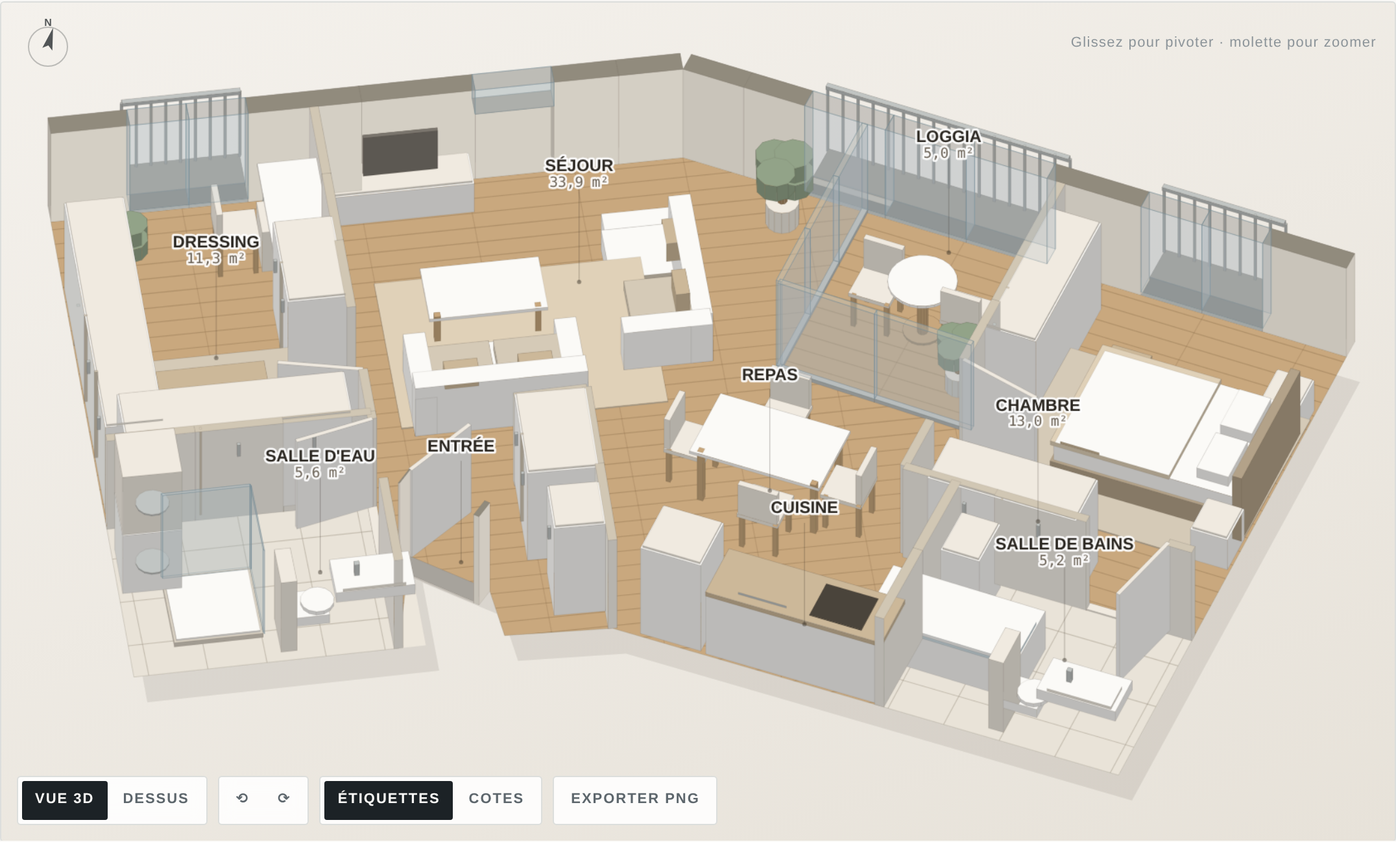
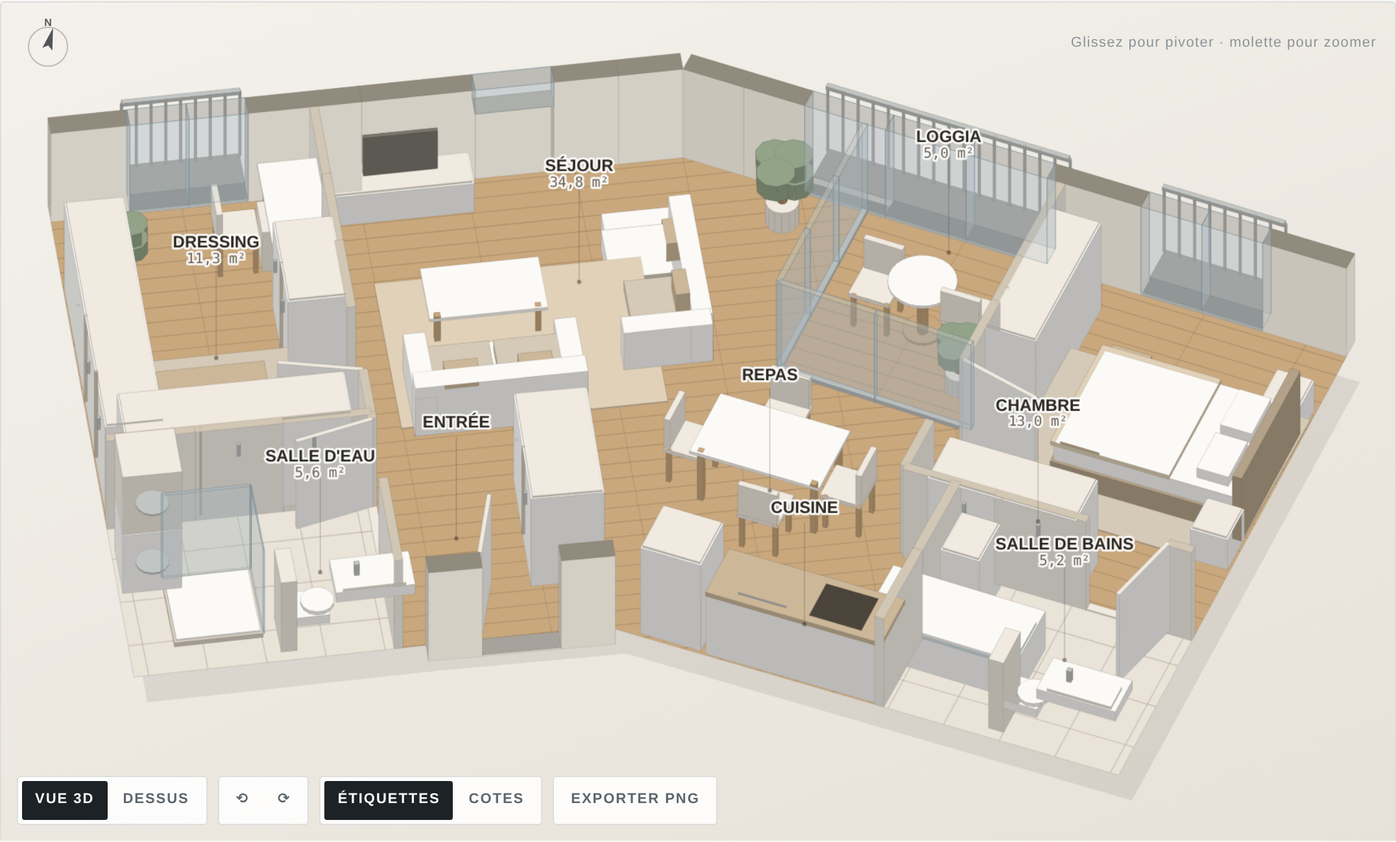
Supprime le redan de l'entrée : la façade file droit, porte centrée
Le contour comportait un renfoncement de trois sommets devant la porte
d'entrée, repris de la polyligne d'annotation du plan d'origine. Il
n'existe pas : la façade va tout droit sur 1,89 m entre l'angle de la
cuisine et celui de la salle d'eau, ce que confirme la cote de 1,09 m du
plan (1,09 de mur + 0,80 de porte = 1,89). Le petit retour de 0,63 m qui
en résultait disparaît.

La porte d'entrée est centrée dans cette façade, gond côté salle d'eau,
ouvrant vers l'intérieur.

Le bloc de l'entrée n'est plus une cloison mais un meuble encastré : les
deux murs qui l'entouraient sont supprimés, il ne reste qu'un rangement
dessiné en trait de mobilier. Il est ramené à 1,45 m pour dégager le
débattement de la porte désormais centrée.

Surface : 74,77 m² au lieu de 74,04.

Claude-Session: https://claude.ai/code/session_01PscxUxGcwcYz6V62f58EbU

Changed region(s): [[0.2802, 0.4931, 0.467, 0.8012]]

diff --git a/plan-3d-appartement/index.html b/plan-3d-appartement/index.html
@@ -1,4 +1,4 @@
-<title>Plan 3D meublé — Appartement 74 m²</title>
+<title>Plan 3D meublé — Appartement 74,8 m²</title>
 <style>
   :root{
     --paper:#FBFAF8;
@@ -166,10 +166,10 @@
   <header class="cartouche">
     <div>
       <p class="eyebrow">Plan 3D meublé — axonométrie</p>
-      <h1>Appartement 74 m² — dressing, chambre, séjour&nbsp;ouvert</h1>
+      <h1>Appartement 74,8 m² — dressing, chambre, séjour&nbsp;ouvert</h1>
     </div>
     <dl class="stamp">
-      <div><dt>Surface</dt><dd>74,0 m²</dd></div>
+      <div><dt>Surface</dt><dd>74,8 m²</dd></div>
       <div><dt>Pièces</dt><dd>T3</dd></div>
       <div><dt>Échelle</dt><dd>1:50</dd></div>
       <div><dt>Ambiance</dt><dd>Blanc / beige</dd></div>
@@ -235,8 +235,8 @@
 
   <h2>Relevé</h2>
   <div class="notes" style="margin-top:16px">
-    <p>Le contour et chaque axe de cloison ont été suivis directement sur le plan d'origine : détection des traits, régression sur les points relevés, puis intersection des droites pour obtenir les sommets. Le contour fermé mesure <strong>74,04 m²</strong>, et les longueurs retrouvées — 6,41 m au nord-ouest, 7,20 m au nord, 6,18 m à l'est, 5,47 m au sud, 2,96 m et 6,30 m au sud-ouest et à l'ouest — tombent à moins d'un centimètre des cotes portées sur le plan.</p>
-    <p>Les cloisons font 9 cm et les murs de façade 22 cm, épaisseurs mesurées sur le dessin. Les baies sont positionnées d'après la densité du hachuré le long de chaque façade : porte-fenêtre du dressing, fenêtre du séjour, verrière de la loggia, porte-fenêtre de la chambre, fenêtres de la salle de bains, de la cuisine et de la salle d'eau.</p>
+    <p>Le contour et chaque axe de cloison ont été suivis directement sur le plan d'origine : détection des traits, régression sur les points relevés, puis intersection des droites pour obtenir les sommets. Le contour fermé mesure <strong>74,77 m²</strong>, et les longueurs retrouvées — 6,41 m au nord-ouest, 7,20 m au nord, 6,18 m à l'est, 5,47 m au sud, 2,96 m et 6,30 m au sud-ouest et à l'ouest — tombent à moins d'un centimètre des cotes portées sur le plan. La façade de l'entrée file droit sur 1,89 m entre l'angle de la cuisine et celui de la salle d'eau, la porte de 0,80 m centrée dedans.</p>
+    <p>Les cloisons font 9 cm et les murs de façade 22 cm, épaisseurs mesurées sur le dessin. Les baies sont positionnées d'après la densité du hachuré le long de chaque façade : porte-fenêtre du dressing, fenêtre du séjour, verrière de la loggia, porte-fenêtre de la chambre, fenêtres de la salle de bains, de la cuisine et de la salle d'eau. Le rangement de l'entrée est un meuble encastré, pas une cloison : il est dessiné en mobilier.</p>
     <p>Le mobilier reprend celui dessiné sur le plan d'origine — deux canapés deux places autour de la table basse, meuble TV en façade nord-ouest, table de repas quatre couverts, cuisine linéaire réfrigérateur/plaques/lave-vaisselle/évier, placard d'entrée, guéridon de loggia, lit et armoire de la chambre, équipements des deux pièces d'eau. Seule la chambre 2 s'en écarte : elle est aménagée en dressing avec un coin bureau, à votre demande.</p>
     <p>Les mêmes données produisent les planches 2D à l'échelle : <strong>A3 au 1:50</strong> et <strong>A4 au 1:75</strong>, chacune avec un plan meublé et un plan de base coté.</p>
   </div>
@@ -252,7 +252,7 @@
 /* ============================ GÉOMÉTRIE (mètres) ============================ */
 /* Données relevées sur le plan d'origine — source commune au rendu 3D et aux
    planches PDF (voir plan_data.py). */
-const DATA = {"V": {"W": [-0.041, -0.041], "N1": [5.861, -2.537], "N2": [13.002, -1.621], "E": [12.277, 4.517], "B1": [6.849, 3.886], "P1": [5.828, 4.262], "P2": [5.527, 3.712], "P3": [4.625, 3.473], "B2": [5.098, 4.597], "S": [2.38, 5.775], "A": [2.415, -1.079], "D": [4.048, 2.808], "Dw": [1.577, 3.847], "Se": [4.844, 4.707], "G1": [7.817, -2.286], "G2": [9.93, -2.015], "G3": [9.639, 0.342], "G4": [7.544, 0.022], "K1": [9.417, 2.143], "K2": [12.515, 2.504], "H1": [9.974, 2.208], "H4": [9.711, 4.219], "Ea": [5.379, 2.225], "Eb": [6.054, 1.921]}, "OUTLINE": ["W", "N1", "N2", "E", "B1", "P1", "P2", "P3", "B2", "S"], "ROOMS": [{"id": "sej", "name": "SÉJOUR", "full": "Séjour, cuisine et entrée", "floor": "parquet", "ang": -22.9, "label": [5.3, -0.6], "poly": ["A", "N1", "G1", "G4", "G3", "K1", "H1", "H4", "B1", "P1", "P2", "P3", "Se", "D"]}, {"id": "ch2", "name": "DRESSING", "full": "Dressing (chambre 2)", "floor": "parquet", "ang": -22.9, "label": [2.05, 1.35], "poly": ["W", "A", "D", "Dw"]}, {"id": "ch1", "name": "CHAMBRE", "full": "Chambre", "floor": "parquet", "ang": 7.3, "label": [10.6, 1.38], "poly": ["G2", "N2", "K2", "K1"]}, {"id": "log", "name": "LOGGIA", "full": "Loggia vitrée", "floor": "parquet", "ang": 7.3, "label": [8.78, -1.95], "poly": ["G1", "G2", "G3", "G4"]}, {"id": "sdb", "name": "SALLE DE BAINS", "full": "Salle de bains", "floor": "carrelage", "ang": 6.6, "label": [11.35, 3.15], "poly": ["H1", "K2", "E", "H4"]}, {"id": "sde", "name": "SALLE D'EAU", "full": "Salle d'eau", "floor": "carrelage", "ang": -23.4, "label": [3.82, 3.92], "poly": ["Dw", "D", "Se", "S"]}], "EXTRA": [["CUISINE", [8.7, 3.35]], ["REPAS", [7.89, 1.67]], ["ENTRÉE", [5.15, 3.42]]], "WALLS": [{"a": "W", "b": "N1", "t": 0.22, "ext": 1, "op": [{"t0": 0.8, "t1": 2.0, "kind": "french"}, {"t0": 4.3, "t1": 5.1, "kind": "win", "sill": 0.95}]}, {"a": "N1", "b": "N2", "t": 0.22, "ext": 1, "op": [{"t0": 1.32, "t1": 3.95, "kind": "french"}, {"t0": 4.97, "t1": 6.29, "kind": "french"}]}, {"a": "N2", "b": "E", "t": 0.22, "ext": 1, "op": []}, {"a": "E", "b": "B1", "t": 0.22, "ext": 1, "op": [{"t0": 1.55, "t1": 2.42, "kind": "win", "sill": 1.0}, {"t0": 2.74, "t1": 3.1, "kind": "win", "sill": 1.15}]}, {"a": "B1", "b": "P1", "t": 0.22, "ext": 1, "op": []}, {"a": "P1", "b": "P2", "t": 0.22, "ext": 1, "op": []}, {"a": "P2", "b": "P3", "t": 0.22, "ext": 1, "keep": 1, "op": [{"t0": 0.06, "t1": 0.92, "kind": "door", "swing": -1, "side": -1, "main": 1}]}, {"a": "P3", "b": "B2", "t": 0.22, "ext": 1, "op": []}, {"a": "B2", "b": "S", "t": 0.22, "ext": 1, "op": [{"t0": 1.63, "t1": 2.25, "kind": "win", "sill": 1.05}]}, {"a": "S", "b": "W", "t": 0.22, "ext": 1, "op": []}, {"a": "Eb", "b": "B1", "t": 0.09, "op": []}, {"a": "Ea", "b": "Eb", "t": 0.07, "op": []}, {"a": "A", "b": "D", "t": 0.09, "op": [{"t0": 2.77, "t1": 3.63, "kind": "door", "swing": -1}]}, {"a": "Dw", "b": "D", "t": 0.09, "op": []}, {"a": "D", "b": "Se", "t": 0.09, "op": [{"t0": 0.1, "t1": 0.92, "kind": "door", "swing": 1}]}, {"a": "G2", "b": "K1", "t": 0.09, "op": [{"t0": 2.61, "t1": 3.51, "kind": "door", "swing": 1, "side": -1}]}, {"a": "K1", "b": "K2", "t": 0.09, "op": [{"t0": 1.98, "t1": 2.85, "kind": "door", "swing": -1}]}, {"a": "H1", "b": "H4", "t": 0.1, "op": []}, {"a": "G1", "b": "G4", "t": 0.06, "op": [{"t0": 0, "t1": 99, "kind": "glass"}]}, {"a": "G4", "b": "G3", "t": 0.06, "op": [{"t0": 0, "t1": 99, "kind": "glass"}]}], "F": [{"t": "rug", "x": 4.95, "y": 0.35, "yaw": -22.92, "w": 2.7, "d": 2.0, "col": "beige"}, {"x": 3.284, "y": -1.165, "t": "tv", "yaw": -22.92, "w": 1.45, "d": 0.45}, {"t": "table", "x": 4.49, "y": 0.07, "yaw": -22.92, "w": 1.2, "d": 0.7, "h": 0.4}, {"t": "sofa", "x": 4.9, "y": 1.15, "yaw": -112.92, "w": 1.75, "d": 0.9, "seats": 2}, {"t": "sofa", "x": 6.15, "y": -0.45, "yaw": 157.08, "w": 1.65, "d": 0.9, "seats": 2}, {"t": "plant", "x": 7.05, "y": -1.95, "s": 1.0}, {"t": "table", "x": 7.89, "y": 1.67, "yaw": 6.63, "w": 1.4, "d": 0.85, "h": 0.75}, {"t": "chair", "x": 7.87, "y": 1.05, "yaw": 96.63}, {"t": "chair", "x": 8.01, "y": 2.29, "yaw": -83.37}, {"t": "chair", "x": 7.07, "y": 1.62, "yaw": 6.63}, {"t": "chair", "x": 8.75, "y": 1.82, "yaw": 186.63}, {"x": 7.503, "y": 3.63, "t": "cabinet", "yaw": 6.63, "w": 0.65, "d": 0.62, "h": 1.28}, {"t": "kitchen", "x": 0, "y": 0, "ka": "B1", "kb": "E", "t0": 1.0, "t1": 2.9, "off": 0.33, "yaw": 6.63}, {"t": "wardrobe", "x": 5.918, "y": 2.583, "yaw": 68.2, "w": 1.09, "d": 0.72, "h": 1.3, "doors": 2}, {"t": "wardrobe", "x": 6.375, "y": 3.52, "yaw": 68.2, "w": 0.58, "d": 0.52, "h": 1.3, "doors": 1}, {"t": "rug", "x": 2.2, "y": 2.05, "yaw": -22.92, "w": 2.1, "d": 1.5, "col": "greige"}, {"x": 1.206, "y": 2.148, "t": "wardrobe", "yaw": 67.4, "w": 3.1, "d": 0.6, "h": 1.28, "doors": 4}, {"x": 2.914, "y": 0.935, "t": "wardrobe", "yaw": 67.21, "w": 1.1, "d": 0.6, "h": 1.28, "doors": 2}, {"x": 2.696, "y": 3.051, "t": "wardrobe", "yaw": -22.81, "w": 2.3, "d": 0.58, "h": 1.28, "doors": 3}, {"x": 2.441, "y": -0.244, "t": "desk", "yaw": 67.21, "w": 1.2, "d": 0.6, "h": 0.74}, {"x": 1.887, "y": -0.011, "t": "chair", "yaw": -22.79}, {"t": "bench", "x": 2.2, "y": 2.05, "yaw": -22.92, "w": 1.1, "d": 0.42, "h": 0.44}, {"t": "plant", "x": 0.85, "y": 0.55, "s": 0.85}, {"x": 4.528, "y": 4.539, "t": "basin", "yaw": -23.430000000000007, "w": 0.8}, {"x": 3.904, "y": 4.733, "t": "wc", "yaw": -23.430000000000007}, {"t": "shower", "x": 2.9, "y": 4.68, "yaw": -23.43, "w": 0.9, "d": 0.9}, {"x": 2.137, "y": 4.306, "t": "appliance", "yaw": 67.4, "stack": 1}, {"t": "roundtable", "x": 8.8, "y": -0.86, "r": 0.35}, {"t": "chair", "x": 8.31, "y": -0.92, "yaw": 97.31}, {"t": "chair", "x": 9.29, "y": -0.8, "yaw": -82.69}, {"t": "plant", "x": 9.35, "y": -0.2, "s": 0.8}, {"t": "rug", "x": 11.45, "y": 0.25, "yaw": 7.31, "w": 2.6, "d": 2.2, "col": "greige"}, {"t": "bed", "x": 11.655, "y": 0.234, "yaw": 186.7, "w": 1.45, "l": 2.0}, {"x": 12.66, "y": -0.604, "t": "cabinet", "yaw": 96.74, "w": 0.45, "d": 0.4, "h": 0.46}, {"x": 12.437, "y": 1.283, "t": "cabinet", "yaw": 96.74, "w": 0.45, "d": 0.4, "h": 0.46}, {"x": 10.078, "y": -0.762, "t": "wardrobe", "yaw": 97.03, "w": 1.75, "d": 0.55, "h": 1.28, "doors": 3}, {"x": 10.495, "y": 1.967, "t": "wardrobe", "yaw": 6.65, "w": 1.6, "d": 0.6, "h": 1.22, "doors": 2}, {"x": 10.254, "y": 3.304, "t": "tub", "yaw": 97.45, "w": 0.75, "l": 1.65}, {"x": 11.175, "y": 4.037, "t": "wc", "yaw": 6.63}, {"x": 11.833, "y": 4.183, "t": "basin", "yaw": 6.63, "w": 0.85}, {"x": 10.225, "y": 2.604, "t": "cabinet", "yaw": 97.45, "w": 0.55, "d": 0.42, "h": 0.95}], "EXT_T": 0.22, "INT_T": 0.09, "WH": 1.3};
+const DATA = {"V": {"W": [-0.041, -0.041], "N1": [5.861, -2.537], "N2": [13.002, -1.621], "E": [12.277, 4.517], "B1": [6.849, 3.886], "B2": [5.098, 4.597], "S": [2.38, 5.775], "A": [2.415, -1.079], "D": [4.048, 2.808], "Dw": [1.577, 3.847], "Se": [4.844, 4.707], "G1": [7.817, -2.286], "G2": [9.93, -2.015], "G3": [9.639, 0.342], "G4": [7.544, 0.022], "K1": [9.417, 2.143], "K2": [12.515, 2.504], "H1": [9.974, 2.208], "H4": [9.711, 4.219], "Ea": [5.379, 2.225], "Eb": [6.054, 1.921]}, "OUTLINE": ["W", "N1", "N2", "E", "B1", "B2", "S"], "ROOMS": [{"id": "sej", "name": "SÉJOUR", "full": "Séjour, cuisine et entrée", "floor": "parquet", "ang": -22.9, "label": [5.3, -0.6], "poly": ["A", "N1", "G1", "G4", "G3", "K1", "H1", "H4", "B1", "B2", "Se", "D"]}, {"id": "ch2", "name": "DRESSING", "full": "Dressing (chambre 2)", "floor": "parquet", "ang": -22.9, "label": [2.05, 1.35], "poly": ["W", "A", "D", "Dw"]}, {"id": "ch1", "name": "CHAMBRE", "full": "Chambre", "floor": "parquet", "ang": 7.3, "label": [10.6, 1.38], "poly": ["G2", "N2", "K2", "K1"]}, {"id": "log", "name": "LOGGIA", "full": "Loggia vitrée", "floor": "parquet", "ang": 7.3, "label": [8.78, -1.95], "poly": ["G1", "G2", "G3", "G4"]}, {"id": "sdb", "name": "SALLE DE BAINS", "full": "Salle de bains", "floor": "carrelage", "ang": 6.6, "label": [11.35, 3.15], "poly": ["H1", "K2", "E", "H4"]}, {"id": "sde", "name": "SALLE D'EAU", "full": "Salle d'eau", "floor": "carrelage", "ang": -23.4, "label": [3.82, 3.92], "poly": ["Dw", "D", "Se", "S"]}], "EXTRA": [["CUISINE", [8.7, 3.35]], ["REPAS", [7.89, 1.67]], ["ENTRÉE", [5.02, 3.12]]], "WALLS": [{"a": "W", "b": "N1", "t": 0.22, "ext": 1, "op": [{"t0": 0.8, "t1": 2.0, "kind": "french"}, {"t0": 4.3, "t1": 5.1, "kind": "win", "sill": 0.95}]}, {"a": "N1", "b": "N2", "t": 0.22, "ext": 1, "op": [{"t0": 1.32, "t1": 3.95, "kind": "french"}, {"t0": 4.97, "t1": 6.29, "kind": "french"}]}, {"a": "N2", "b": "E", "t": 0.22, "ext": 1, "op": []}, {"a": "E", "b": "B1", "t": 0.22, "ext": 1, "op": [{"t0": 1.55, "t1": 2.42, "kind": "win", "sill": 1.0}, {"t0": 2.74, "t1": 3.1, "kind": "win", "sill": 1.15}]}, {"a": "B1", "b": "B2", "t": 0.22, "ext": 1, "keep": 1, "op": [{"t0": 0.545, "t1": 1.345, "kind": "door", "swing": -1, "side": -1, "main": 1}]}, {"a": "B2", "b": "S", "t": 0.22, "ext": 1, "op": [{"t0": 1.63, "t1": 2.25, "kind": "win", "sill": 1.05}]}, {"a": "S", "b": "W", "t": 0.22, "ext": 1, "op": []}, {"a": "A", "b": "D", "t": 0.09, "op": [{"t0": 2.77, "t1": 3.63, "kind": "door", "swing": -1}]}, {"a": "Dw", "b": "D", "t": 0.09, "op": []}, {"a": "D", "b": "Se", "t": 0.09, "op": [{"t0": 0.1, "t1": 0.92, "kind": "door", "swing": 1}]}, {"a": "G2", "b": "K1", "t": 0.09, "op": [{"t0": 2.61, "t1": 3.51, "kind": "door", "swing": 1, "side": -1}]}, {"a": "K1", "b": "K2", "t": 0.09, "op": [{"t0": 1.98, "t1": 2.85, "kind": "door", "swing": -1}]}, {"a": "H1", "b": "H4", "t": 0.1, "op": []}, {"a": "G1", "b": "G4", "t": 0.06, "op": [{"t0": 0, "t1": 99, "kind": "glass"}]}, {"a": "G4", "b": "G3", "t": 0.06, "op": [{"t0": 0, "t1": 99, "kind": "glass"}]}], "F": [{"t": "rug", "x": 4.95, "y": 0.35, "yaw": -22.92, "w": 2.7, "d": 2.0, "col": "beige"}, {"x": 3.284, "y": -1.165, "t": "tv", "yaw": -22.92, "w": 1.45, "d": 0.45}, {"t": "table", "x": 4.49, "y": 0.07, "yaw": -22.92, "w": 1.2, "d": 0.7, "h": 0.4}, {"t": "sofa", "x": 4.9, "y": 1.15, "yaw": -112.92, "w": 1.75, "d": 0.9, "seats": 2}, {"t": "sofa", "x": 6.15, "y": -0.45, "yaw": 157.08, "w": 1.65, "d": 0.9, "seats": 2}, {"t": "plant", "x": 7.05, "y": -1.95, "s": 1.0}, {"t": "table", "x": 7.89, "y": 1.67, "yaw": 6.63, "w": 1.4, "d": 0.85, "h": 0.75}, {"t": "chair", "x": 7.87, "y": 1.05, "yaw": 96.63}, {"t": "chair", "x": 8.01, "y": 2.29, "yaw": -83.37}, {"t": "chair", "x": 7.07, "y": 1.62, "yaw": 6.63}, {"t": "chair", "x": 8.75, "y": 1.82, "yaw": 186.63}, {"x": 7.503, "y": 3.63, "t": "cabinet", "yaw": 6.63, "w": 0.65, "d": 0.62, "h": 1.28}, {"t": "kitchen", "x": 0, "y": 0, "ka": "B1", "kb": "E", "t0": 1.0, "t1": 2.9, "off": 0.33, "yaw": 6.63}, {"t": "wardrobe", "x": 5.987, "y": 2.746, "yaw": 68.1, "w": 1.45, "d": 0.74, "h": 1.3, "doors": 2}, {"t": "rug", "x": 2.2, "y": 2.05, "yaw": -22.92, "w": 2.1, "d": 1.5, "col": "greige"}, {"x": 1.206, "y": 2.148, "t": "wardrobe", "yaw": 67.4, "w": 3.1, "d": 0.6, "h": 1.28, "doors": 4}, {"x": 2.914, "y": 0.935, "t": "wardrobe", "yaw": 67.21, "w": 1.1, "d": 0.6, "h": 1.28, "doors": 2}, {"x": 2.696, "y": 3.051, "t": "wardrobe", "yaw": -22.81, "w": 2.3, "d": 0.58, "h": 1.28, "doors": 3}, {"x": 2.441, "y": -0.244, "t": "desk", "yaw": 67.21, "w": 1.2, "d": 0.6, "h": 0.74}, {"x": 1.887, "y": -0.011, "t": "chair", "yaw": -22.79}, {"t": "bench", "x": 2.2, "y": 2.05, "yaw": -22.92, "w": 1.1, "d": 0.42, "h": 0.44}, {"t": "plant", "x": 0.85, "y": 0.55, "s": 0.85}, {"x": 4.528, "y": 4.539, "t": "basin", "yaw": -23.430000000000007, "w": 0.8}, {"x": 3.904, "y": 4.733, "t": "wc", "yaw": -23.430000000000007}, {"t": "shower", "x": 2.9, "y": 4.68, "yaw": -23.43, "w": 0.9, "d": 0.9}, {"x": 2.137, "y": 4.306, "t": "appliance", "yaw": 67.4, "stack": 1}, {"t": "roundtable", "x": 8.8, "y": -0.86, "r": 0.35}, {"t": "chair", "x": 8.31, "y": -0.92, "yaw": 97.31}, {"t": "chair", "x": 9.29, "y": -0.8, "yaw": -82.69}, {"t": "plant", "x": 9.35, "y": -0.2, "s": 0.8}, {"t": "rug", "x": 11.45, "y": 0.25, "yaw": 7.31, "w": 2.6, "d": 2.2, "col": "greige"}, {"t": "bed", "x": 11.655, "y": 0.234, "yaw": 186.7, "w": 1.45, "l": 2.0}, {"x": 12.66, "y": -0.604, "t": "cabinet", "yaw": 96.74, "w": 0.45, "d": 0.4, "h": 0.46}, {"x": 12.437, "y": 1.283, "t": "cabinet", "yaw": 96.74, "w": 0.45, "d": 0.4, "h": 0.46}, {"x": 10.078, "y": -0.762, "t": "wardrobe", "yaw": 97.03, "w": 1.75, "d": 0.55, "h": 1.28, "doors": 3}, {"x": 10.495, "y": 1.967, "t": "wardrobe", "yaw": 6.65, "w": 1.6, "d": 0.6, "h": 1.22, "doors": 2}, {"x": 10.254, "y": 3.304, "t": "tub", "yaw": 97.45, "w": 0.75, "l": 1.65}, {"x": 11.175, "y": 4.037, "t": "wc", "yaw": 6.63}, {"x": 11.833, "y": 4.183, "t": "basin", "yaw": 6.63, "w": 0.85}, {"x": 10.225, "y": 2.604, "t": "cabinet", "yaw": 97.45, "w": 0.55, "d": 0.42, "h": 0.95}], "EXT_T": 0.22, "INT_T": 0.09, "WH": 1.3};
 const V = DATA.V;
 const P = k => V[k];
 const OUTLINE = DATA.OUTLINE.map(P);

diff --git a/plan-3d-appartement/plan3d.tpl.html b/plan-3d-appartement/plan3d.tpl.html
@@ -1,4 +1,4 @@
-<title>Plan 3D meublé — Appartement 74 m²</title>
+<title>Plan 3D meublé — Appartement 74,8 m²</title>
 <style>
   :root{
     --paper:#FBFAF8;
@@ -166,10 +166,10 @@
   <header class="cartouche">
     <div>
       <p class="eyebrow">Plan 3D meublé — axonométrie</p>
-      <h1>Appartement 74 m² — dressing, chambre, séjour&nbsp;ouvert</h1>
+      <h1>Appartement 74,8 m² — dressing, chambre, séjour&nbsp;ouvert</h1>
     </div>
     <dl class="stamp">
-      <div><dt>Surface</dt><dd>74,0 m²</dd></div>
+      <div><dt>Surface</dt><dd>74,8 m²</dd></div>
       <div><dt>Pièces</dt><dd>T3</dd></div>
       <div><dt>Échelle</dt><dd>1:50</dd></div>
       <div><dt>Ambiance</dt><dd>Blanc / beige</dd></div>
@@ -235,8 +235,8 @@
 
   <h2>Relevé</h2>
   <div class="notes" style="margin-top:16px">
-    <p>Le contour et chaque axe de cloison ont été suivis directement sur le plan d'origine : détection des traits, régression sur les points relevés, puis intersection des droites pour obtenir les sommets. Le contour fermé mesure <strong>74,04 m²</strong>, et les longueurs retrouvées — 6,41 m au nord-ouest, 7,20 m au nord, 6,18 m à l'est, 5,47 m au sud, 2,96 m et 6,30 m au sud-ouest et à l'ouest — tombent à moins d'un centimètre des cotes portées sur le plan.</p>
-    <p>Les cloisons font 9 cm et les murs de façade 22 cm, épaisseurs mesurées sur le dessin. Les baies sont positionnées d'après la densité du hachuré le long de chaque façade : porte-fenêtre du dressing, fenêtre du séjour, verrière de la loggia, porte-fenêtre de la chambre, fenêtres de la salle de bains, de la cuisine et de la salle d'eau.</p>
+    <p>Le contour et chaque axe de cloison ont été suivis directement sur le plan d'origine : détection des traits, régression sur les points relevés, puis intersection des droites pour obtenir les sommets. Le contour fermé mesure <strong>74,77 m²</strong>, et les longueurs retrouvées — 6,41 m au nord-ouest, 7,20 m au nord, 6,18 m à l'est, 5,47 m au sud, 2,96 m et 6,30 m au sud-ouest et à l'ouest — tombent à moins d'un centimètre des cotes portées sur le plan. La façade de l'entrée file droit sur 1,89 m entre l'angle de la cuisine et celui de la salle d'eau, la porte de 0,80 m centrée dedans.</p>
+    <p>Les cloisons font 9 cm et les murs de façade 22 cm, épaisseurs mesurées sur le dessin. Les baies sont positionnées d'après la densité du hachuré le long de chaque façade : porte-fenêtre du dressing, fenêtre du séjour, verrière de la loggia, porte-fenêtre de la chambre, fenêtres de la salle de bains, de la cuisine et de la salle d'eau. Le rangement de l'entrée est un meuble encastré, pas une cloison : il est dessiné en mobilier.</p>
     <p>Le mobilier reprend celui dessiné sur le plan d'origine — deux canapés deux places autour de la table basse, meuble TV en façade nord-ouest, table de repas quatre couverts, cuisine linéaire réfrigérateur/plaques/lave-vaisselle/évier, placard d'entrée, guéridon de loggia, lit et armoire de la chambre, équipements des deux pièces d'eau. Seule la chambre 2 s'en écarte : elle est aménagée en dressing avec un coin bureau, à votre demande.</p>
     <p>Les mêmes données produisent les planches 2D à l'échelle : <strong>A3 au 1:50</strong> et <strong>A4 au 1:75</strong>, chacune avec un plan meublé et un plan de base coté.</p>
   </div>

diff --git a/plan-3d-appartement/plan_data.py b/plan-3d-appartement/plan_data.py
@@ -6,19 +6,18 @@ import math, json
 
 V = {
  "W":(-0.041,-0.041), "N1":(5.861,-2.537), "N2":(13.002,-1.621), "E":(12.277,4.517),
- "B1":(6.849,3.886), "P1":(5.828,4.262), "P2":(5.527,3.712), "P3":(4.625,3.473),
- "B2":(5.098,4.597), "S":(2.380,5.775),
+ "B1":(6.849,3.886), "B2":(5.098,4.597), "S":(2.380,5.775),
  "A":(2.415,-1.079), "D":(4.048,2.808), "Dw":(1.577,3.847), "Se":(4.844,4.707),
  "G1":(7.817,-2.286), "G2":(9.930,-2.015), "G3":(9.639,0.342), "G4":(7.544,0.022),
  "K1":(9.417,2.143), "K2":(12.515,2.504), "H1":(9.974,2.208), "H4":(9.711,4.219),
  "Ea":(5.379,2.225), "Eb":(6.054,1.921),   # bloc de rangement de l'entrée
 }
-OUTLINE = ["W","N1","N2","E","B1","P1","P2","P3","B2","S"]
+OUTLINE = ["W","N1","N2","E","B1","B2","S"]
 
 ROOMS = [
  dict(id="sej", name="SÉJOUR", full="Séjour, cuisine et entrée", floor="parquet", ang=-22.9,
       label=(5.30,-0.60),
-      poly=["A","N1","G1","G4","G3","K1","H1","H4","B1","P1","P2","P3","Se","D"]),
+      poly=["A","N1","G1","G4","G3","K1","H1","H4","B1","B2","Se","D"]),
  dict(id="ch2", name="DRESSING", full="Dressing (chambre 2)", floor="parquet", ang=-22.9,
       label=(2.05,1.35), poly=["W","A","D","Dw"]),
  dict(id="ch1", name="CHAMBRE", full="Chambre", floor="parquet", ang=7.3,
@@ -30,7 +29,7 @@ ROOMS = [
  dict(id="sde", name="SALLE D'EAU", full="Salle d'eau", floor="carrelage", ang=-23.4,
       label=(3.82,3.92), poly=["Dw","D","Se","S"]),
 ]
-EXTRA_LABELS = [("CUISINE",(8.70,3.35)), ("REPAS",(7.89,1.67)), ("ENTRÉE",(5.15,3.42))]
+EXTRA_LABELS = [("CUISINE",(8.70,3.35)), ("REPAS",(7.89,1.67)), ("ENTRÉE",(5.02,3.12))]
 
 EXT_T, INT_T, WH = 0.22, 0.09, 1.30
 
@@ -42,15 +41,10 @@ WALLS = [
  dict(a="N2",b="E",  t=EXT_T, ext=1, op=[]),
  dict(a="E", b="B1", t=EXT_T, ext=1, op=[dict(t0=1.55,t1=2.42,kind="win",sill=1.00),
                                          dict(t0=2.74,t1=3.10,kind="win",sill=1.15)]),
- dict(a="B1",b="P1", t=EXT_T, ext=1, op=[]),
- dict(a="P1",b="P2", t=EXT_T, ext=1, op=[]),
- dict(a="P2",b="P3", t=EXT_T, ext=1, keep=1,                       # porte d'entrée : jamais masquée
-      op=[dict(t0=0.06,t1=0.92,kind="door",swing=-1,side=-1,main=1)]),
- dict(a="P3",b="B2", t=EXT_T, ext=1, op=[]),
+ dict(a="B1",b="B2", t=EXT_T, ext=1, keep=1,                       # porte d'entrée : jamais masquée
+      op=[dict(t0=0.545,t1=1.345,kind="door",swing=-1,side=-1,main=1)]),
  dict(a="B2",b="S",  t=EXT_T, ext=1, op=[dict(t0=1.63,t1=2.25,kind="win",sill=1.05)]),
  dict(a="S", b="W",  t=EXT_T, ext=1, op=[]),
- dict(a="Eb",b="B1", t=INT_T, op=[]),                 # cloison entrée / cuisine
- dict(a="Ea",b="Eb", t=0.07,  op=[]),                 # fond des placards d'entrée
  dict(a="A", b="D",  t=INT_T, op=[dict(t0=2.77,t1=3.63,kind="door",swing=-1)]),
  dict(a="Dw",b="D",  t=INT_T, op=[]),
  dict(a="D", b="Se", t=INT_T, op=[dict(t0=0.10,t1=0.92,kind="door",swing=1)]),
@@ -110,8 +104,7 @@ for dx,dy,ry in ((-0.02,-0.62,SU+90),(0.12,0.62,SU-90),(-0.82,-0.05,SU),(0.86,0.
 at(along("B1","E",0.62,0.33,room="sej"), t="cabinet", yaw=SU, w=0.65, d=0.62, h=1.28)
 add(t="kitchen", x=0, y=0, ka="B1", kb="E", t0=1.00, t1=2.90, off=0.33, yaw=SU)
 # ------------------------------------------------------------------ ENTRÉE
-add(t="wardrobe", x=5.918, y=2.583, yaw=68.2, w=1.09, d=0.72, h=1.30, doors=2)
-add(t="wardrobe", x=6.375, y=3.520, yaw=68.2, w=0.58, d=0.52, h=1.30, doors=1)
+add(t="wardrobe", x=5.987, y=2.746, yaw=68.1, w=1.45, d=0.74, h=1.30, doors=2)   # dégagé du débattement de la porte
 # ------------------------------------------- CHAMBRE 2 → DRESSING + BUREAU
 add(t="rug", x=2.20, y=2.05, yaw=NW, w=2.10, d=1.50, col="greige")
 at(along("W","S",2.50,0.31,room="ch2"), t="wardrobe", yaw=WE, w=3.10, d=0.60, h=1.28, doors=4)

diff --git a/plan-3d-appartement/make_pdf.py b/plan-3d-appartement/make_pdf.py
@@ -409,11 +409,11 @@ def sheet(c, W, H, k, title, sub, scale_txt, page, npages, furnished):
 def build(path, page_w, page_h, scale_den):
     k = mm / (scale_den/1000.0)                  # points par mètre
     c = rcanvas.Canvas(path, pagesize=(page_w, page_h))
-    c.setTitle("Appartement 74 m² — plan 2D 1:%d" % scale_den)
-    sheet(c, page_w, page_h, k, "Appartement 3 pièces — 74 m²",
+    c.setTitle("Appartement 74,8 m² — plan 2D 1:%d" % scale_den)
+    sheet(c, page_w, page_h, k, "Appartement 3 pièces — 74,8 m²",
           "Plan meublé",
           "1:%d" % scale_den, 1, 2, True)
-    sheet(c, page_w, page_h, k, "Appartement 3 pièces — 74 m²",
+    sheet(c, page_w, page_h, k, "Appartement 3 pièces — 74,8 m²",
           "Plan de base coté",
           "1:%d" % scale_den, 2, 2, False)
     c.save()

diff --git a/plan-3d-appartement/README.md b/plan-3d-appartement/README.md
@@ -16,7 +16,7 @@ axonométrie meublée et en planches 2D à l'échelle.
 
 Le contour et chaque axe de cloison ont été suivis sur le plan d'origine :
 détection des traits, régression sur les points relevés, intersection des
-droites pour obtenir les sommets. Le contour fermé mesure **74,04 m²** et les
+droites pour obtenir les sommets. Le contour fermé mesure **74,77 m²** et les
 longueurs retrouvées tombent à moins d'un centimètre des cotes portées sur le
 plan (6,41 / 7,20 / 6,18 / 5,47 / 2,96 / 6,30 m). Les baies sont positionnées
 d'après la densité du hachuré le long de chaque façade.
@@ -26,8 +26,8 @@ pour dégager la vue plongeante ; hauteur sous plafond réelle 2,55 m.
 
 ## Surfaces
 
-Séjour-cuisine-entrée 33,9 · Chambre 13,0 · Dressing 11,3 · Salle d'eau 5,6 ·
-Salle de bains 5,2 · Loggia 5,0 — **73,9 m²**.
+Séjour-cuisine-entrée 34,8 · Chambre 13,0 · Dressing 11,3 · Salle d'eau 5,6 ·
+Salle de bains 5,2 · Loggia 5,0 — **74,8 m²**.
 
 ## Reconstruire
 
